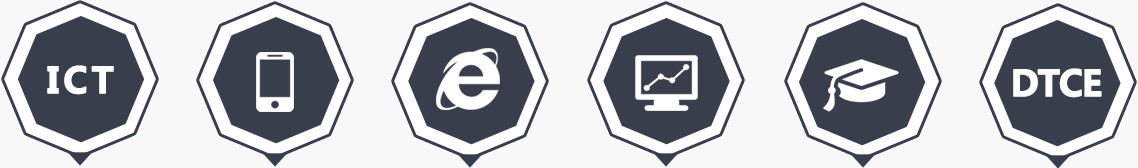
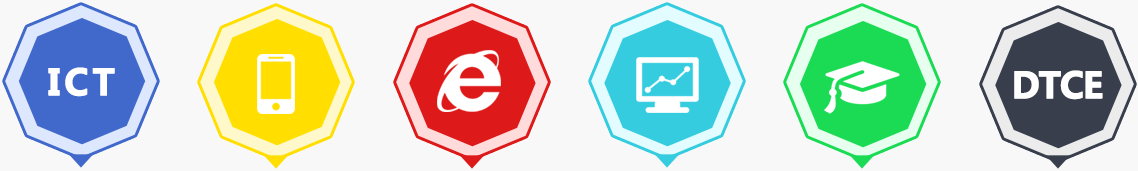
solution list change

diff --git a/app/assets/stylesheets/fix.css.scss b/app/assets/stylesheets/fix.css.scss
@@ -5,7 +5,7 @@
 		text-decoration: none;
 	}
 	a {
-		opacity: 0.3;
+		//opacity: 0.3;
 		span.scheme {
 			color: #7b7b7b;
 			line-height: 28px;
@@ -25,17 +25,17 @@
 			text-align: center;
 			display: block;
 			&.size {
-				height: 126px;
+				height: 132px;
 				margin: 5px 0;
 			}
 			&.ict {
 				background: image-url("solution-list-bg.png") no-repeat 8px 0;
 			}
 			&.mobile {
-				background: image-url("solution-list-bg.png") no-repeat -162px 0;
+				background: image-url("solution-list-bg.png") no-repeat -186px 0;
 			}
 			&.web {
-				background: image-url("solution-list-bg.png") no-repeat -356px 0;
+				background: image-url("solution-list-bg.png") no-repeat -366px 0;
 			}
 			&.thing {
 				background: image-url("solution-list-bg.png") no-repeat -574px 0;
